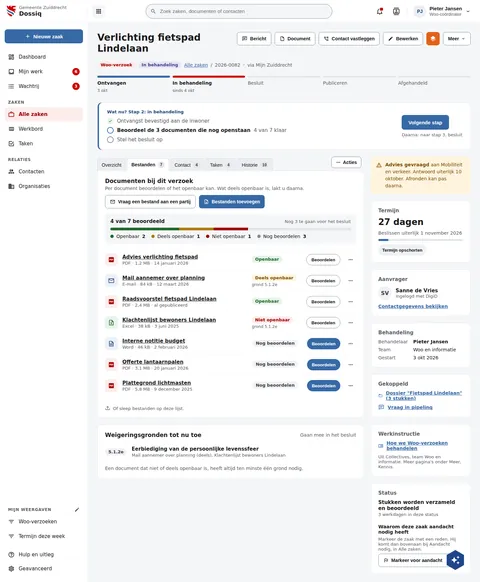
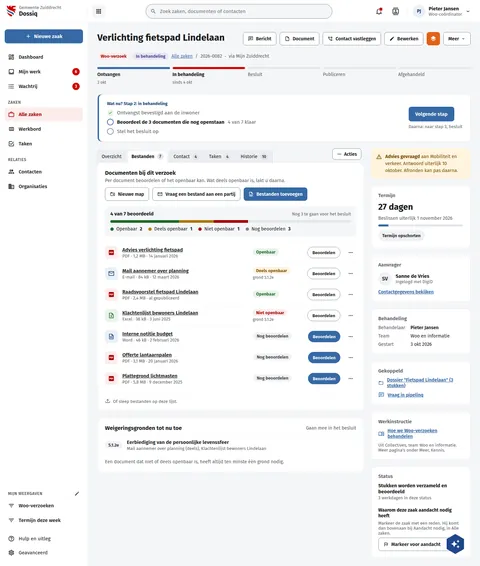
feat(screens): DqZaakDocumenten draws the Nieuwe map button, as live keeps it
The case documents toolbar keeps making folders through a folder button
beside "Vraag een bestand aan een partij" and "Bestanden toevoegen"
(the New menu is gone on live). The board draws it.

Assisted-by: ClaudeCode:claude-opus-5-5

diff --git a/preview/screens/boards/DqZaakDocumenten.html b/preview/screens/boards/DqZaakDocumenten.html
@@ -232,6 +232,7 @@ a{color:var(--sc-primary, #3669a5)}a:hover{color:var(--sc-primary-deep, #234a78)
                   <span style="font-size: 14px; color: var(--sc-work-muted, #5e6168)">Per document beoordelen of het openbaar kan. Wat deels openbaar is, lakt u daarna.</span>
                 </div>
                 <div style="display: flex; flex-wrap: wrap; gap: 10px">
+                  <button type="button" style="display: flex; align-items: center; gap: 8px; height: 40px; padding: 0 14px; border: 1px solid var(--sc-work-field, #828a95); border-radius: 8px; background: #ffffff; font: 600 14px var(--sc-font, 'Fira Sans'), sans-serif; color: var(--sc-work-ink, #1b1c1d)"><svg width="16" height="16" viewbox="0 0 24 24" fill="currentColor"><path d="M12,12H14V10H16V12H18V14H16V16H14V14H12V12M22,8V18A2,2 0 0,1 20,20H4A2,2 0 0,1 2,18V6A2,2 0 0,1 4,4H10L12,6H20A2,2 0 0,1 22,8M20,8H4V18H20V8Z"></path></svg>Nieuwe map</button>
                   <button type="button" style="display: flex; align-items: center; gap: 8px; height: 40px; padding: 0 14px; border: 1px solid var(--sc-work-field, #828a95); border-radius: 8px; background: #ffffff; font: 600 14px var(--sc-font, 'Fira Sans'), sans-serif; color: var(--sc-work-ink, #1b1c1d)"><svg width="16" height="16" viewbox="0 0 24 24" fill="currentColor"><path d="M22 6C22 4.9 21.1 4 20 4H4C2.9 4 2 4.9 2 6V18C2 19.1 2.9 20 4 20H20C21.1 20 22 19.1 22 18V6M20 6L12 11L4 6H20M20 18H4V8L12 13L20 8V18Z"></path></svg>Vraag een bestand aan een partij</button>
                   <button type="button" style="display: flex; align-items: center; gap: 8px; height: 40px; padding: 0 14px; border: 0; border-radius: 8px; background: var(--sc-primary, #3669a5); color: #ffffff; font: 600 14px var(--sc-font, 'Fira Sans'), sans-serif"><svg width="16" height="16" viewbox="0 0 24 24" fill="currentColor"><path d="M14,2L20,8V20A2,2 0 0,1 18,22H6A2,2 0 0,1 4,20V4A2,2 0 0,1 6,2H14M18,20V9H13V4H6V20H18M12,12L16,16H13.5V19H10.5V16H8L12,12Z"></path></svg>Bestanden toevoegen</button>
                 </div>

diff --git a/screens-src/zuiddrecht/DqZaakDocumenten.dc.html b/screens-src/zuiddrecht/DqZaakDocumenten.dc.html
@@ -82,6 +82,7 @@ a{color:#3669a5}a:hover{color:#234a78}
                   <span style="font-size: 14px; color: #5e6168">Per document beoordelen of het openbaar kan. Wat deels openbaar is, lakt u daarna.</span>
                 </div>
                 <div style="display: flex; flex-wrap: wrap; gap: 10px">
+                  <button type="button" style="display: flex; align-items: center; gap: 8px; height: 40px; padding: 0 14px; border: 1px solid #828a95; border-radius: 8px; background: #ffffff; font: 600 14px 'Fira Sans', sans-serif; color: #1b1c1d"><svg width="16" height="16" viewBox="0 0 24 24" fill="currentColor"><path d="M12,12H14V10H16V12H18V14H16V16H14V14H12V12M22,8V18A2,2 0 0,1 20,20H4A2,2 0 0,1 2,18V6A2,2 0 0,1 4,4H10L12,6H20A2,2 0 0,1 22,8M20,8H4V18H20V8Z"></path></svg>Nieuwe map</button>
                   <button type="button" style="display: flex; align-items: center; gap: 8px; height: 40px; padding: 0 14px; border: 1px solid #828a95; border-radius: 8px; background: #ffffff; font: 600 14px 'Fira Sans', sans-serif; color: #1b1c1d"><svg width="16" height="16" viewBox="0 0 24 24" fill="currentColor"><path d="M22 6C22 4.9 21.1 4 20 4H4C2.9 4 2 4.9 2 6V18C2 19.1 2.9 20 4 20H20C21.1 20 22 19.1 22 18V6M20 6L12 11L4 6H20M20 18H4V8L12 13L20 8V18Z"></path></svg>Vraag een bestand aan een partij</button>
                   <button type="button" style="display: flex; align-items: center; gap: 8px; height: 40px; padding: 0 14px; border: 0; border-radius: 8px; background: #3669a5; color: #ffffff; font: 600 14px 'Fira Sans', sans-serif"><svg width="16" height="16" viewBox="0 0 24 24" fill="currentColor"><path d="M14,2L20,8V20A2,2 0 0,1 18,22H6A2,2 0 0,1 4,20V4A2,2 0 0,1 6,2H14M18,20V9H13V4H6V20H18M12,12L16,16H13.5V19H10.5V16H8L12,12Z"></path></svg>Bestanden toevoegen</button>
                 </div>
